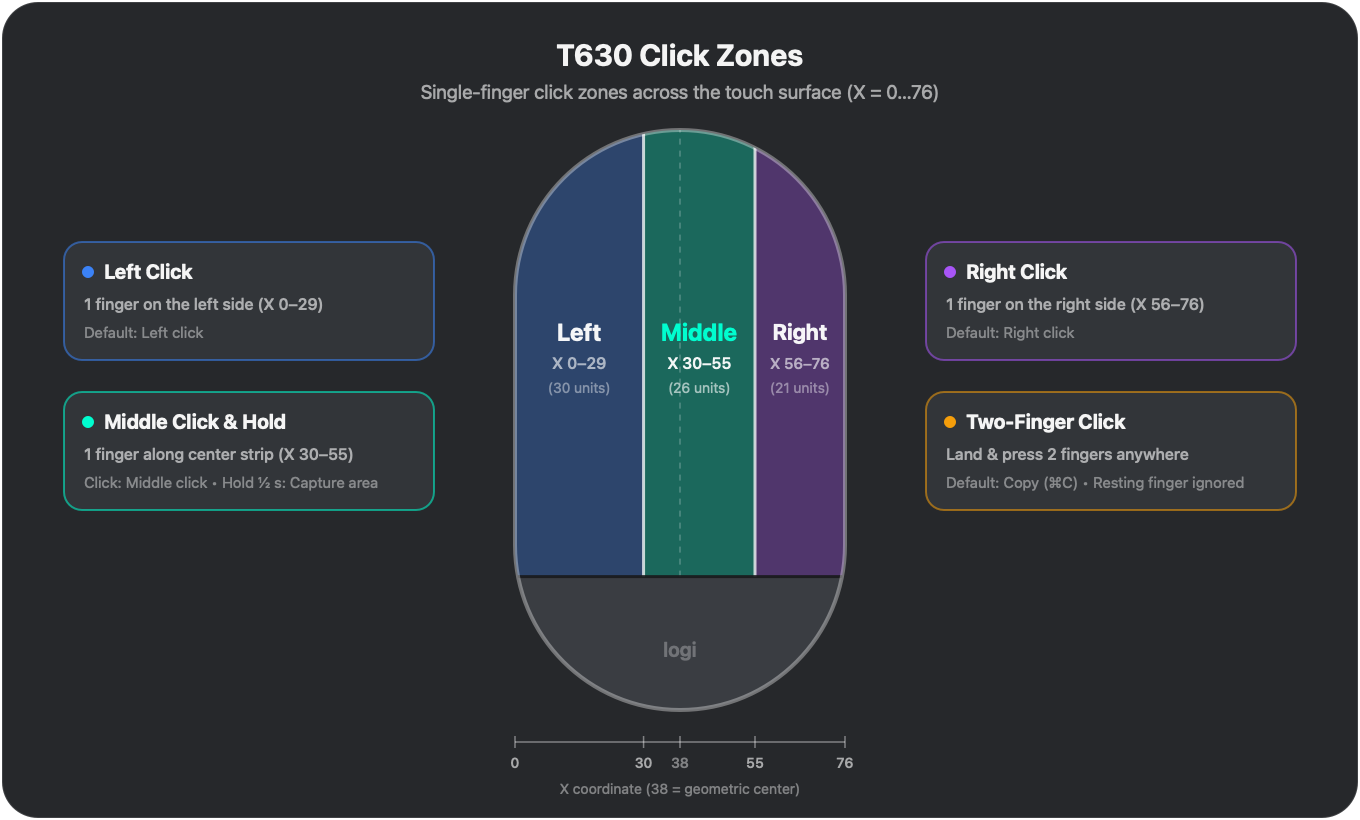
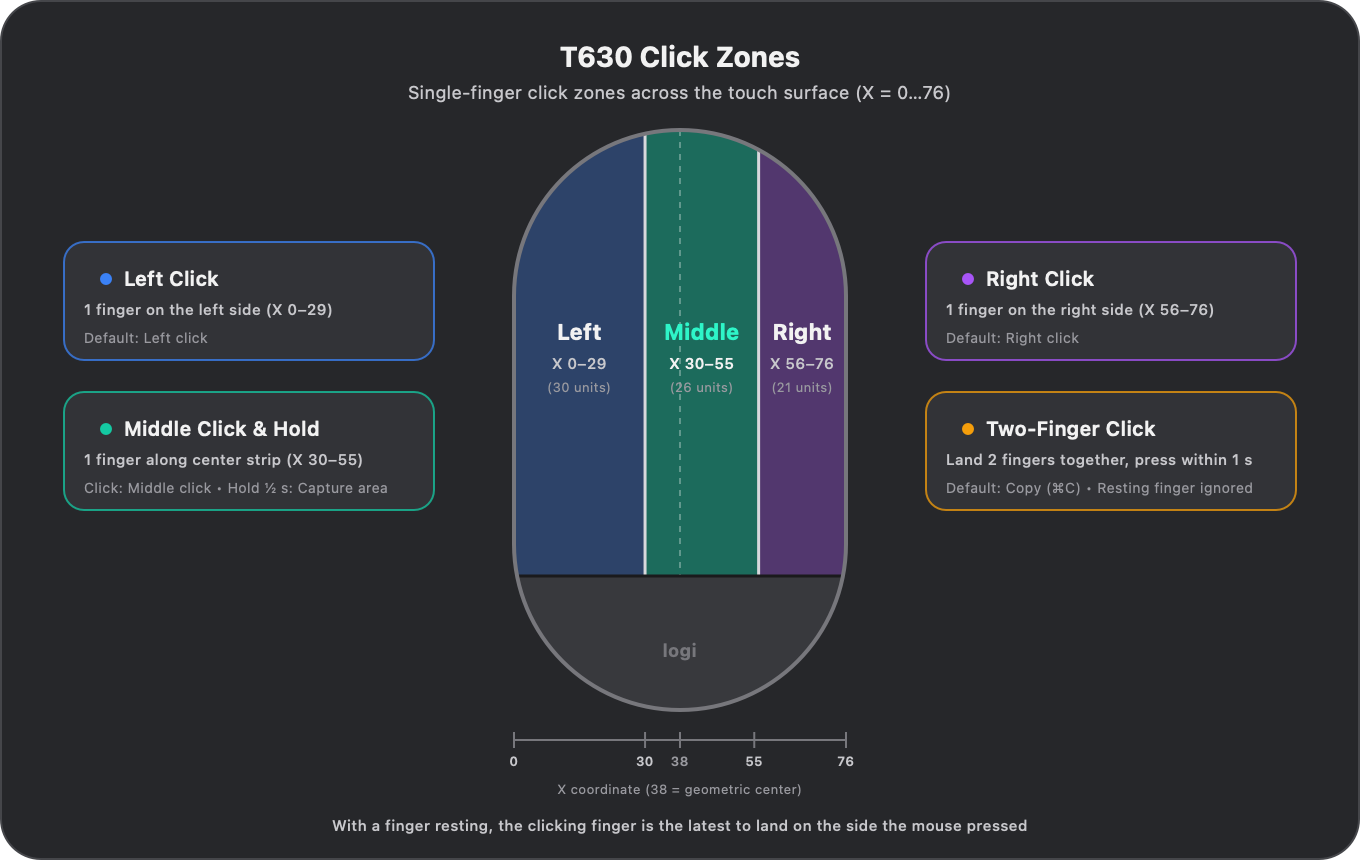
docs: update click zones preview

diff --git a/Support/make-click-zones.swift b/Support/make-click-zones.swift
@@ -1,0 +1,139 @@
+// Draws the T630 click zones diagram and writes docs/click-zones.png.
+// Run from the repo root:  swift Support/make-click-zones.swift
+//
+// The mouse seen from above, its touch surface split into the single-finger click zones
+// (T630.zone: middle is T630.middleZoneX, right from T630.rightSideX outside it), with a card
+// for each kind of click on either side and the X axis underneath.
+import AppKit
+
+let width: CGFloat = 680, height: CGFloat = 430, scale: CGFloat = 2
+let maxX: CGFloat = 76                                     // X runs 0...76 across the surface
+let zones: [(name: String, from: Int, to: Int, color: NSColor)] = [
+    ("Left", 0, 29, rgb(0x2D4369)),
+    ("Middle", 30, 55, rgb(0x1C6B5C)),
+    ("Right", 56, 76, rgb(0x52376E)),
+]
+
+func rgb(_ hex: Int, _ alpha: CGFloat = 1) -> NSColor {
+    NSColor(srgbRed: CGFloat(hex >> 16 & 0xFF) / 255, green: CGFloat(hex >> 8 & 0xFF) / 255,
+            blue: CGFloat(hex & 0xFF) / 255, alpha: alpha)
+}
+let background = rgb(0x26272A), cardFill = rgb(0x323337), text = rgb(0xF2F2F2)
+let secondary = rgb(0xC8C8CC), tertiary = rgb(0x9A9AA0), outline = rgb(0x77777C)
+
+func draw(_ string: String, at point: NSPoint, size: CGFloat, weight: NSFont.Weight = .regular,
+          color: NSColor = text, centered: Bool = false) {
+    let attributed = NSAttributedString(string: string, attributes: [
+        .font: NSFont.systemFont(ofSize: size, weight: weight), .foregroundColor: color,
+    ])
+    let x = centered ? point.x - attributed.size().width / 2 : point.x
+    attributed.draw(at: NSPoint(x: x, y: point.y - attributed.size().height / 2))
+}
+
+func card(_ frame: NSRect, color: NSColor, title: String, detail: String, note: String) {
+    let box = NSBezierPath(roundedRect: frame, xRadius: 10, yRadius: 10)
+    cardFill.setFill()
+    box.fill()
+    color.withAlphaComponent(0.75).setStroke()
+    box.lineWidth = 1
+    box.stroke()
+    color.setFill()
+    NSBezierPath(ovalIn: NSRect(x: frame.minX + 18, y: frame.minY + 15.5, width: 6, height: 6)).fill()
+    draw(title, at: NSPoint(x: frame.minX + 30, y: frame.minY + 18.5), size: 10, weight: .semibold)
+    draw(detail, at: NSPoint(x: frame.minX + 10, y: frame.minY + 34), size: 7.5, weight: .medium, color: secondary)
+    draw(note, at: NSPoint(x: frame.minX + 10, y: frame.minY + 48), size: 7, color: tertiary)
+}
+
+let rep = NSBitmapImageRep(bitmapDataPlanes: nil, pixelsWide: Int(width * scale), pixelsHigh: Int(height * scale),
+                           bitsPerSample: 8, samplesPerPixel: 4, hasAlpha: true, isPlanar: false,
+                           colorSpaceName: .deviceRGB, bytesPerRow: 0, bitsPerPixel: 0)!
+let cg = NSGraphicsContext(bitmapImageRep: rep)!.cgContext
+cg.translateBy(x: 0, y: height * scale)
+cg.scaleBy(x: scale, y: -scale)                           // points, y runs down
+NSGraphicsContext.current = NSGraphicsContext(cgContext: cg, flipped: true)
+
+// Background.
+let frame = NSBezierPath(roundedRect: NSRect(x: 0.5, y: 0.5, width: width - 1, height: height - 1), xRadius: 20, yRadius: 20)
+background.setFill()
+frame.fill()
+rgb(0x45464A).setStroke()
+frame.stroke()
+
+draw("T630 Click Zones", at: NSPoint(x: width / 2, y: 28), size: 14, weight: .bold, centered: true)
+draw("Single-finger click zones across the touch surface (X = 0…76)",
+     at: NSPoint(x: width / 2, y: 46), size: 9, color: secondary, centered: true)
+
+// Mouse: a capsule whose top part, down to the logo, is the touch surface.
+let mouse = NSRect(x: 257, y: 65, width: 166, height: 290)
+let surfaceBottom: CGFloat = 288
+func surfaceX(_ x: CGFloat) -> CGFloat { mouse.minX + x / maxX * mouse.width }
+let body = NSBezierPath(roundedRect: mouse, xRadius: mouse.width / 2, yRadius: mouse.width / 2)
+NSGraphicsContext.saveGraphicsState()
+body.addClip()
+rgb(0x38393D).setFill()
+mouse.fill()
+for zone in zones {
+    zone.color.setFill()
+    let left = surfaceX(CGFloat(zone.from)), right = zone.to == Int(maxX) ? mouse.maxX : surfaceX(CGFloat(zone.to + 1))
+    NSRect(x: left, y: mouse.minY, width: right - left, height: surfaceBottom - mouse.minY).fill()
+}
+for zone in zones.dropFirst() {                           // zone borders
+    let x = surfaceX(CGFloat(zone.from))
+    rgb(0xD8D8DC).setFill()
+    NSRect(x: x - 0.75, y: mouse.minY, width: 1.5, height: surfaceBottom - mouse.minY).fill()
+}
+let center = NSBezierPath()                               // geometric center
+center.move(to: NSPoint(x: surfaceX(38), y: mouse.minY))
+center.line(to: NSPoint(x: surfaceX(38), y: surfaceBottom))
+center.setLineDash([3, 3], count: 2, phase: 0)
+rgb(0xFFFFFF, 0.3).setStroke()
+center.stroke()
+rgb(0x1A1A1C).setFill()
+NSRect(x: mouse.minX, y: surfaceBottom - 0.75, width: mouse.width, height: 1.5).fill()
+NSGraphicsContext.restoreGraphicsState()
+body.lineWidth = 2
+outline.setStroke()
+body.stroke()
+draw("logi", at: NSPoint(x: mouse.midX, y: 325), size: 9, weight: .bold, color: rgb(0x77777C), centered: true)
+
+for zone in zones {
+    let left = surfaceX(CGFloat(zone.from)), right = zone.to == Int(maxX) ? mouse.maxX : surfaceX(CGFloat(zone.to + 1))
+    let middle = zone.name == "Middle", x = (left + right) / 2
+    draw(zone.name, at: NSPoint(x: x, y: 166), size: 11, weight: .bold, color: middle ? rgb(0x2EF5C8) : text, centered: true)
+    draw("X \(zone.from)–\(zone.to)", at: NSPoint(x: x, y: 182), size: 7.5, weight: .medium,
+         color: middle ? text : secondary, centered: true)
+    draw("(\(zone.to - zone.from + 1) units)", at: NSPoint(x: x, y: 194), size: 6.5, color: tertiary, centered: true)
+}
+
+// Cards.
+let blue = rgb(0x3B82F6), teal = rgb(0x14C9A2), purple = rgb(0xA855F7), orange = rgb(0xF59E0B)
+card(NSRect(x: 32, y: 121, width: 185, height: 59), color: blue, title: "Left Click",
+     detail: "1 finger on the left side (X 0–29)", note: "Default: Left click")
+card(NSRect(x: 32, y: 196, width: 185, height: 59), color: teal, title: "Middle Click & Hold",
+     detail: "1 finger along center strip (X 30–55)", note: "Click: Middle click • Hold ½ s: Capture area")
+card(NSRect(x: 463, y: 121, width: 185, height: 59), color: purple, title: "Right Click",
+     detail: "1 finger on the right side (X 56–76)", note: "Default: Right click")
+card(NSRect(x: 463, y: 196, width: 185, height: 59), color: orange, title: "Two-Finger Click",
+     detail: "Land 2 fingers together, press within 1 s", note: "Default: Copy (⌘C) • Resting finger ignored")
+
+// X axis.
+let axisY: CGFloat = 370
+let axis = NSBezierPath()
+axis.move(to: NSPoint(x: surfaceX(0), y: axisY))
+axis.line(to: NSPoint(x: surfaceX(maxX), y: axisY))
+for tick in [0, 30, 38, 55, 76] {
+    let x = surfaceX(CGFloat(tick))
+    axis.move(to: NSPoint(x: x, y: axisY - 4))
+    axis.line(to: NSPoint(x: x, y: axisY + 4))
+    draw("\(tick)", at: NSPoint(x: x, y: axisY + 11), size: 6.5, weight: .semibold,
+         color: tick == 38 ? tertiary : secondary, centered: true)
+}
+axis.lineWidth = 1
+outline.setStroke()
+axis.stroke()
+draw("X coordinate (38 = geometric center)", at: NSPoint(x: width / 2, y: axisY + 25), size: 6.5, color: tertiary, centered: true)
+draw("With a finger resting, the clicking finger is the latest to land on the side the mouse pressed",
+     at: NSPoint(x: width / 2, y: axisY + 43), size: 7.5, weight: .medium, color: secondary, centered: true)
+
+NSGraphicsContext.current = nil
+try! rep.representation(using: .png, properties: [:])!.write(to: URL(fileURLWithPath: "docs/click-zones.png"))
